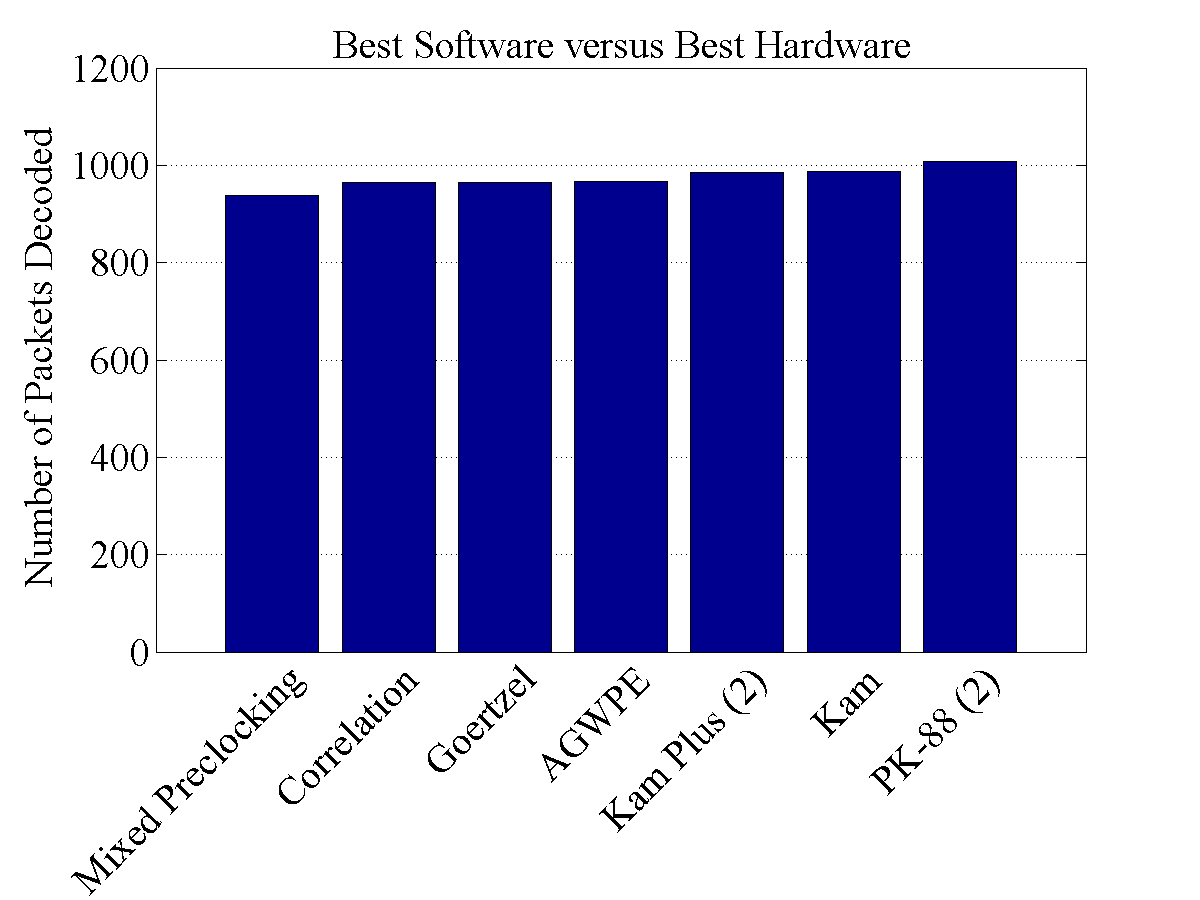
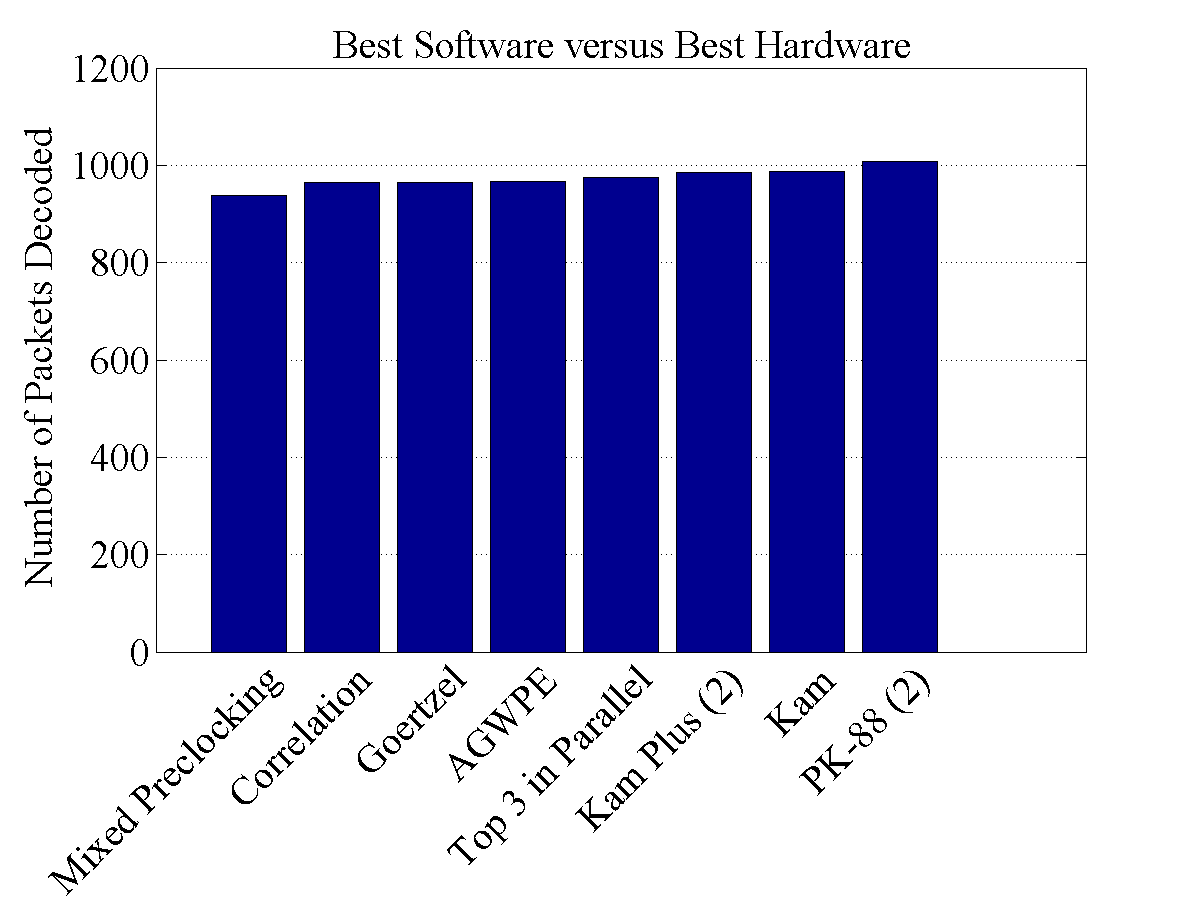
Adding top 3 in parallel to the last results graph

diff --git a/results.tex b/results.tex
@@ -139,7 +139,7 @@ As mentioned earlier, these next two test files were those that were thought the
 
 
 \subsection{Hardware and Software Comparisons}
-It is now time to actually compare the new software implementations to the old ones as well as to the hardware. The first thing to notice is that the Goertzel Filter did very well, and in some cases better than the original correlation. Secondly, the complicated preclocking algorithm was also able to hold its own and still be a top contender. In fact the top three software algorithms were Correlation, Goertzel, and Mixed Preclocking with 964, 965, and 939 packets decoded from Track 1 with the bandpass filter, the results of these top three algorithms versus the top three pieces of hardware can be seen in Figure \ref{bestHardSoft}. Even though they all have different number of packets decoded they each still have their expertise with being able to exclusively decode packets that others could not. For instance when the three are run together there is a total of 975 packets decoded due to the fact that Goertzel gets 12 packets that the other two do not, Correlation gets 7 that the others do not, and Preclocking decoded 3 that these other two missed. This could still be a good argument for the use of software over hardware since it is very easy to run multiple demodulators in parallel. Especially since the cost of this is only 5 minutes and 2 seconds on a file that is 25:49 long.
+It is now time to actually compare the new software implementations to the old ones as well as to the hardware. The first thing to notice is that the Goertzel Filter did very well, and in some cases better than the original correlation. Secondly, the complicated preclocking algorithm was also able to hold its own and still be a top contender. In fact the top three software algorithms were Correlation, Goertzel, and Mixed Preclocking with 964, 965, and 939 packets decoded from Track 1 with the bandpass filter, the results of these top three algorithms versus the top three pieces of hardware can be seen in Figure \ref{bestHardSoft}. In addition to having the top 3 of each Figure \ref{bestHardSoft} includes the results of AGWPE and running the top 3 software algorithms in parallel. Even though each algorithm decodes different numbers of packets they each still have their expertise with being able to exclusively decode packets that others could not. For instance when the three are run together there is a total of 975 packets decoded due to the fact that Goertzel gets 12 packets that the other two do not, Correlation gets 7 that the others do not, and Preclocking decoded 3 that these other two missed. This could still be a good argument for the use of software over hardware since it is very easy to run multiple demodulators in parallel. Especially since the cost of this is only 5 minutes and 2 seconds on a file that is 25:49 long.
 
 \begin{figure}
   \centering
